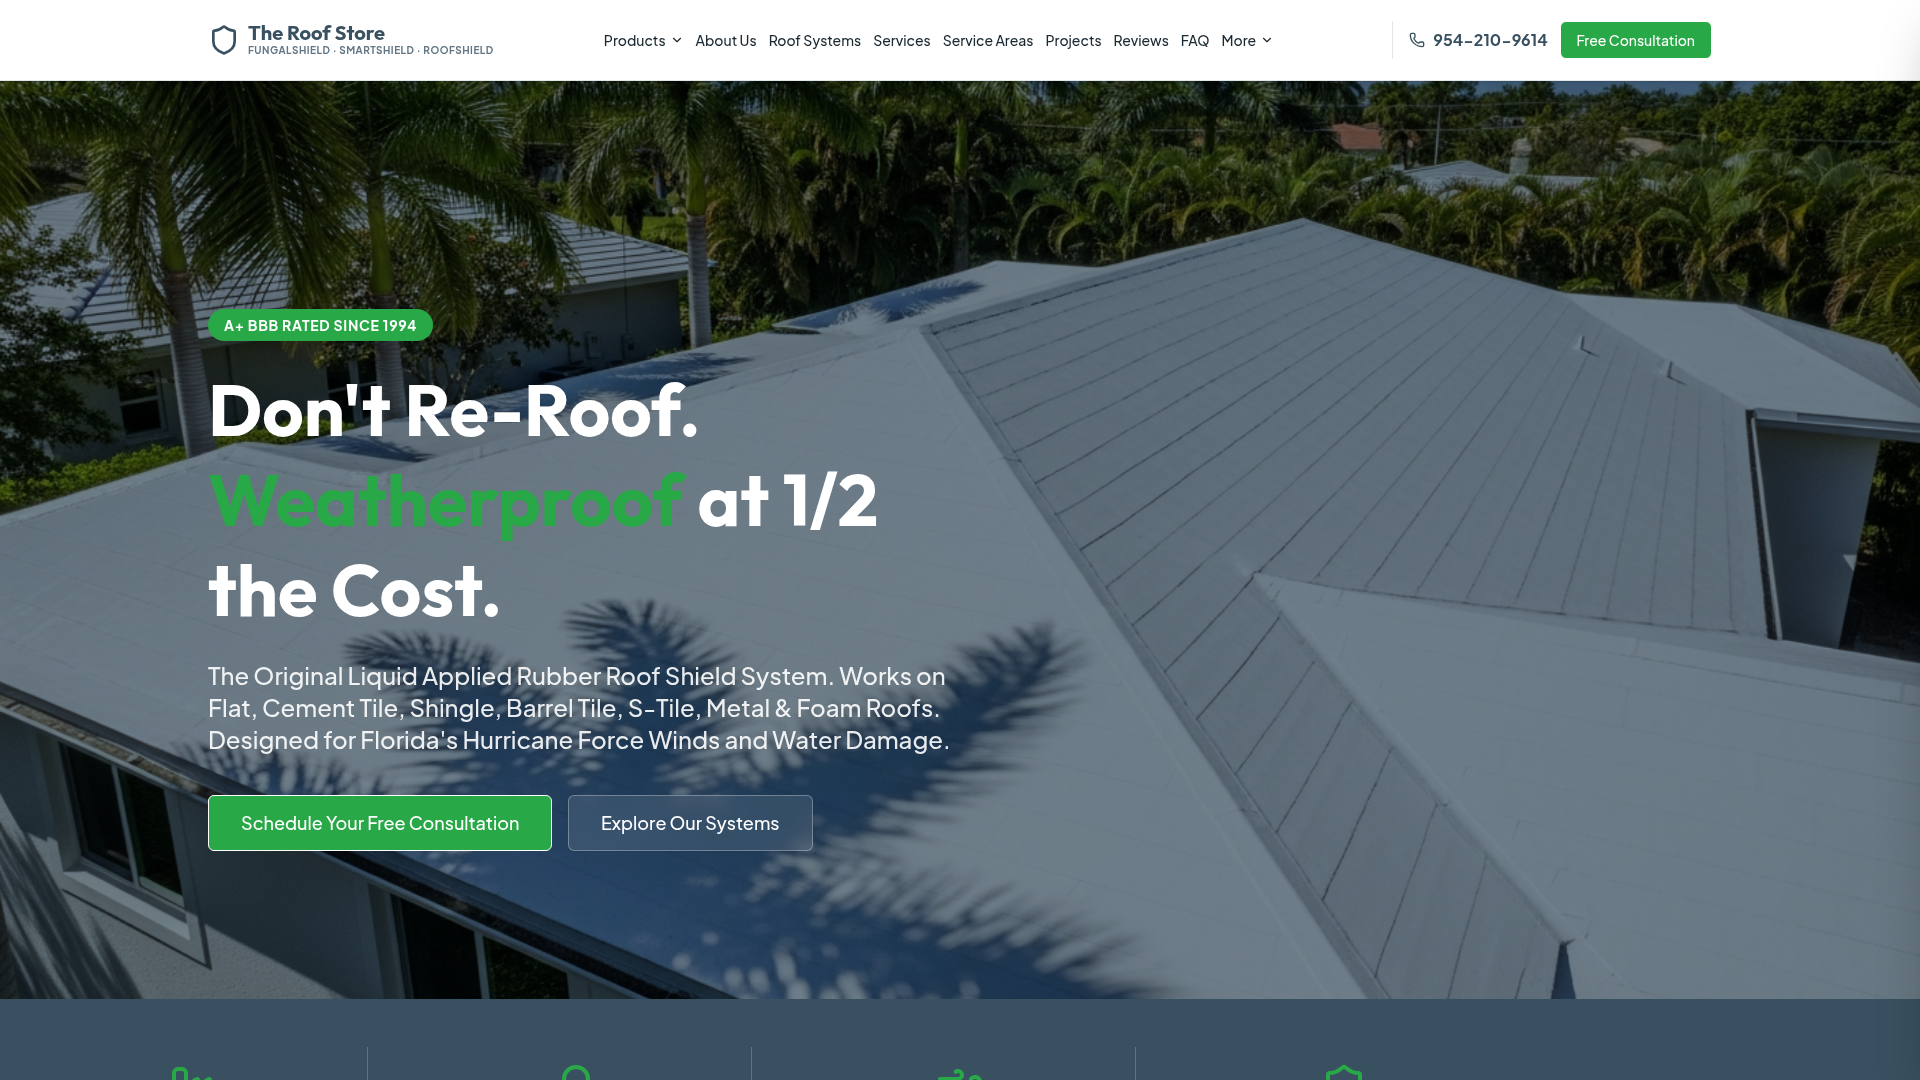
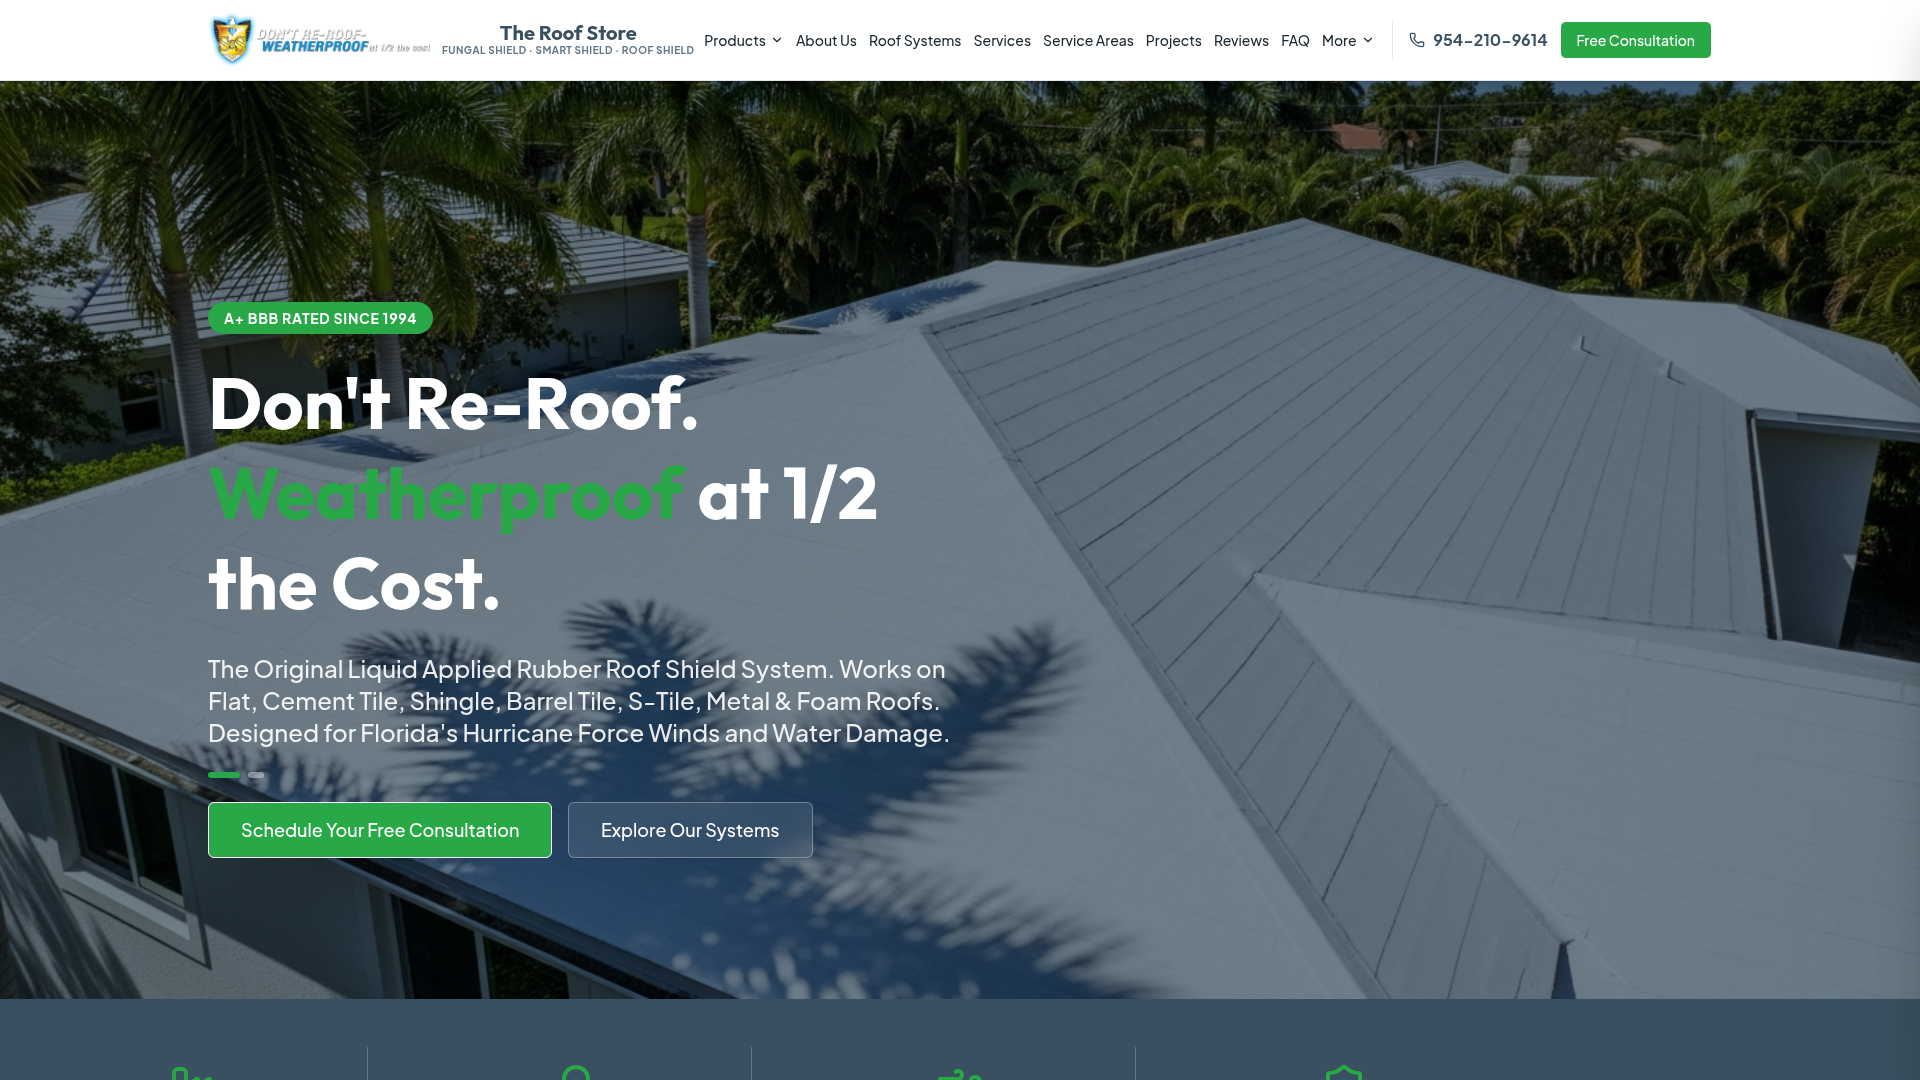
Record findings about verification tool caching behavior
Document a specific caching behavior observed in external verification tools that can lead to false positives when confirming production fixes.

Replit-Commit-Author: Agent
Replit-Commit-Session-Id: b6256afe-f471-41e1-a4be-a79ed5052267
Replit-Commit-Checkpoint-Type: full_checkpoint
Replit-Commit-Event-Id: 39a0ebf2-b574-4e24-aaf7-628dd2cd658d
Replit-Commit-Screenshot-Url: https://storage.googleapis.com/screenshot-production-us-central1/ed56006c-1475-44bc-a14e-edad2aa3212e/b6256afe-f471-41e1-a4be-a79ed5052267/PsYRG4Y
Replit-Helium-Checkpoint-Created: true

diff --git a/.agents/memory/verification-tool-url-caching.md b/.agents/memory/verification-tool-url-caching.md
@@ -1,0 +1,10 @@
+---
+name: Verification tool URL caching
+description: External screenshot/webFetch tools can return stale cached snapshots keyed by exact URL, causing false "still broken in production" conclusions.
+---
+
+When verifying a production fix with the `screenshot` (external_url) or `webFetch` tools, a "bug still present" result for a URL that was fetched/screenshotted *before* the fix was published can be a stale cache hit from the tool's own backend, not a real regression.
+
+**Why:** Investigated a reported "double header" on a specific production page. Exhaustive source review (Layout, Navbar, App router, main.tsx, server.js, full page component) showed no possible duplicate render, and other pages on the same bundle rendered cleanly. The one affected URL was the exact URL originally reported broken pre-fix. Re-fetching with a cache-busting query param (`?cachebust=<timestamp>`) immediately returned clean single-header content.
+
+**How to apply:** Before trusting a persistent "still broken in prod" signal from these tools — especially when source code review finds nothing wrong and other routes/pages are clean — retest with a cache-busting query param appended to the URL. If that resolves it, the original result was a stale tool-side cache, not a real bug. Don't spend further engineering time chasing it in the codebase.

diff --git a/.agents/memory/MEMORY.md b/.agents/memory/MEMORY.md
@@ -1,3 +1,4 @@
 - [Deploy approval required](deploy-policy.md) — never suggest publishing unless the user explicitly says to publish/deploy.
 - [Resend email setup](resend-email-setup.md) — domain verification pending; Porkbun DNS needed to unlock customer auto-responses.
 - [Roof Store entity structure](roof-store-entity-structure.md) — 3-tier model (storefront/manufacturer/installer) + "RoofProtect" one-word spelling; consult before editing company/product copy.
+- [Verification tool caches by URL](verification-tool-url-caching.md) — screenshot/webFetch tools can serve stale cached snapshots per exact URL; always add a cache-busting query param before trusting a "still broken in prod" result.
